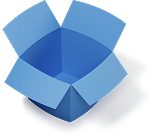
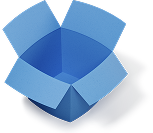
home done

diff --git a/app/(tabs)/home/index.tsx b/app/(tabs)/home/index.tsx
@@ -1,7 +1,7 @@
 import { MainColors } from "@/constants/theme";
 import { useStylesGlobal } from "@/hooks/use-styles-global";
 import { Ionicons } from "@expo/vector-icons";
-import { FlatList, Image, StyleSheet, Text, View } from "react-native";
+import { FlatList, Image, ScrollView, StyleSheet, Text, View } from "react-native";
 
 const issuesDammy = [
      { id: 1, title: 'This is a title', date: 'This is a date' },
@@ -38,10 +38,10 @@ export default function HomeScreen() {
      const NoIssuesYet = () => {
           return (
                <View style={[styles.noIssue]}>
-                    <Text style={[mainStyles.authTitles, { paddingBottom: 30, fontSize: 20 }]}>You haven't submitted any issue yet.</Text>
+                    <Text style={[mainStyles.authTitles, { paddingBottom: 20, fontSize: 20 }]}>You haven't submitted any issue yet.</Text>
 
                     <View style={[styles.placeholder]}>
-                         <Image source={require('@/assets/images/nothing.png')} />
+                         <Image source={require('@/assets/images/nothing.png')} resizeMode="contain" style={{ height: 120 }} />
                          <View style={styles.add}>
                               <Ionicons name="add" style={[styles.addIcon]} />
                          </View>
@@ -72,11 +72,11 @@ export default function HomeScreen() {
 
      return (
           <View style={[mainStyles.pages]}>
-               <Text style={[mainStyles.authTitles, { textAlign: 'left', fontFamily: 'EBGaramondBold' }]}>Welcome {username}</Text>
+               <Text style={[mainStyles.authTitles, { textAlign: 'left', fontFamily: 'EBGaramondBold', marginBottom: 5 }]}>Welcome {username}</Text>
                
                <Statistics />
                
-               <Text style={[mainStyles.authTitles, { textAlign: 'left', fontFamily: 'EBGaramondBold', marginTop: 20 }]}>Previous Issues</Text>
+               <Text style={[mainStyles.authTitles, { textAlign: 'left', fontFamily: 'EBGaramondBold', marginTop: 10 }]}>Previous Issues</Text>
 
                {/* <NoIssuesYet /> */}
                <IssuesDisplay />
@@ -106,8 +106,10 @@ const styles = StyleSheet.create({
      noIssue: {
           backgroundColor: MainColors["Light Gray"],
           paddingHorizontal: 20,
-          paddingVertical: 30,
+          paddingVertical: 10,
           borderRadius: 20,
+          maxHeight: 300
+          // height: '100%',
      },
      placeholder: {
           flexDirection: 'row',
@@ -118,7 +120,7 @@ const styles = StyleSheet.create({
      add: {
           backgroundColor: MainColors["Almost Black"],
           width: '40%',
-          height: '100%',
+          height: '80%',
           borderRadius: 20,
           justifyContent: 'center',
           alignItems: 'center',

diff --git a/hooks/use-styles-global.ts b/hooks/use-styles-global.ts
@@ -73,10 +73,10 @@ export const useStylesGlobal = (props?: UseStylesProps) => {
           },
           pages: {
                paddingHorizontal: 20,
-               paddingVertical: 30,
+               paddingVertical: 20,
                backgroundColor: MainColors["Main Background"],
                flex: 1,
-               gap: 20,
+               gap: 10,
           }
      })
 }

diff --git a/app/(tabs)/_layout.tsx b/app/(tabs)/_layout.tsx
@@ -100,8 +100,7 @@ const styles = StyleSheet.create({
           width: 50,
           height: 50,
           borderRadius: 100,
-          borderWidth: 1,
-          borderColor: MainColors["Accent Green"],
+          resizeMode: 'contain',
      },
      route: {
           fontWeight: 500,
